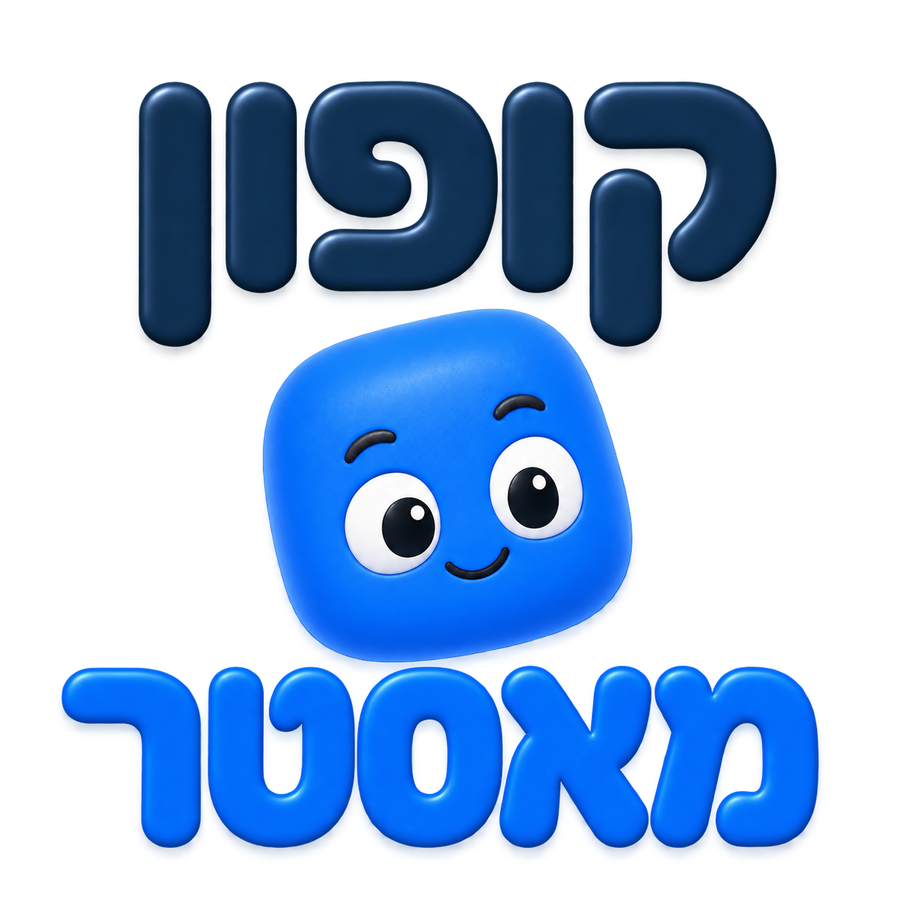
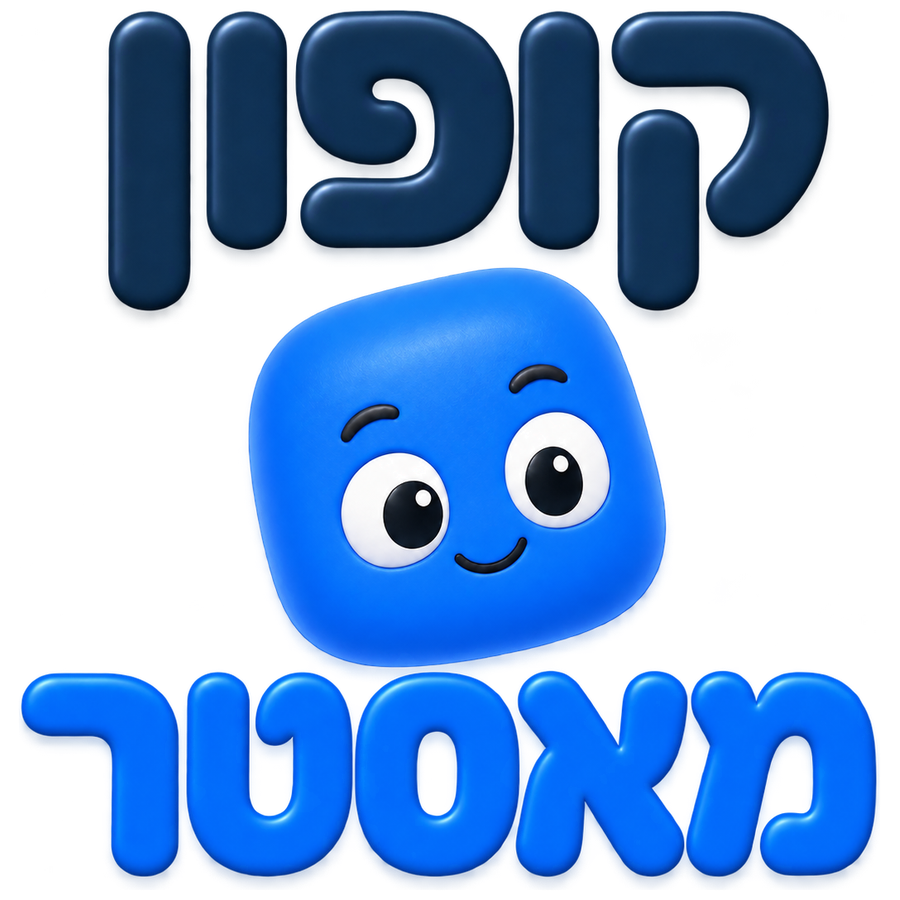
Stop the wordmark's invisible halo from eating the login screen
Two things you spotted turn out to be the same bug.

The generated wordmark art carries a halo of alpha 1 to 8 reaching about
190px past the artwork — invisible on any background, and indistinguishable
from art to `getbbox()`, which counts anything above zero. The exporter
cropped to that, so the halo went into the export as if it were part of
the mark. The real ink then had to shrink to fit the 1200x240 canvas and
landed on 52% of its height, wrapped in padding nobody could see.

On screen that is a wordmark painting 176x29pt inside its 280x64 box,
with 19pt of nothing above it and 16pt below — a gap that is not in any
stylesheet, which is why it could not be found by reading the layout.
Cropping at alpha 8 instead puts the ink at 81% of the canvas and 277x45pt
on screen, with 9pt of slack each side. The bevel and drop shadow survive:
between alpha 8 and 128 the artwork's own box moves by a few pixels.

That is also most of the height problem. The screen totalled about 780pt
against the roughly 750 an iPhone 16 Pro leaves once Safari has taken its
bars, so it overflowed — and what fell off the bottom was the terms and
privacy line, which sits below the card. A link you have to scroll to find
is a link most people never read.

Trimming the padding around the logo closes the rest: 32 to 20 on the page,
24 to 10 under the mark, 32 to 26 inside the card, 24 to 18 under the
subtitle. 781pt down to 725, which clears the fold with 25 to spare.
[…]

diff --git a/src/screens/auth/LoginScreen.tsx b/src/screens/auth/LoginScreen.tsx
@@ -264,15 +264,22 @@ const styles = StyleSheet.create({
   keyboardView: {
     flex: 1,
   },
+  /**
+   * The whole screen has to clear the fold on a phone, because the terms and
+   * privacy links live under the card and a link you have to scroll to find is
+   * a link most people never read. On an iPhone 16 Pro in Safari — 874pt of
+   * screen, around 750 of it usable once the browser's own bars are out — the
+   * old 32pt padding put the total at roughly 780 and pushed those links off.
+   */
   scrollContent: {
     flexGrow: 1,
     justifyContent: "center",
     paddingHorizontal: 16,
-    paddingVertical: 32,
+    paddingVertical: 20,
   },
   brand: {
     alignItems: "center",
-    marginBottom: 24,
+    marginBottom: 10,
   },
   // Horizontal Hebrew wordmark keeps the form within reach on small screens.
   brandMark: { width: 280, maxWidth: "100%", height: 64 },
@@ -283,7 +290,7 @@ const styles = StyleSheet.create({
     borderRadius: radii.sheet,
     borderWidth: 1,
     paddingHorizontal: 28,
-    paddingVertical: 32,
+    paddingVertical: 26,
     overflow: "hidden",
     boxShadow: "0px 20px 50px rgba(16, 24, 40, 0.18)",
     elevation: 8,
@@ -306,7 +313,7 @@ const styles = StyleSheet.create({
     fontFamily: fonts.body,
     fontSize: 14,
     textAlign: "center",
-    marginBottom: 24,
+    marginBottom: 18,
   },
   fields: {
     gap: 0,

diff --git a/scripts/build-kuponi-wordmarks.py b/scripts/build-kuponi-wordmarks.py
@@ -32,7 +32,19 @@ for name in ('color-horizontal', 'color-stacked', 'white-horizontal', 'white-sta
     original = Image.open(BRAND / 'source' / f'{name}.png').convert('RGBA')
     assert original.getchannel('A').getextrema()[0] == 0
     # Trim transparent canvas only; preserve the approved art, bevels and shadows.
-    cropped = original.crop(original.getchannel('A').getbbox())
+    #
+    # Thresholded, because `getbbox()` counts any alpha above zero and the
+    # generated source carries a halo of 1-8 alpha reaching ~190px past the
+    # artwork. Cropping to that kept the halo as if it were art: the wordmark
+    # then had to shrink to fit the export canvas, so it landed at roughly half
+    # the height it should have, wrapped in invisible padding that read on
+    # screen as a gap nobody could find in the layout.
+    #
+    # 8 is comfortably below the real bevel and drop shadow — between alpha 8
+    # and 128 the artwork's own box only moves by a few pixels, so the shadow
+    # survives the crop intact.
+    alpha = original.getchannel('A')
+    cropped = original.crop(alpha.point(lambda value: 255 if value > 8 else 0).getbbox())
     cropped = ImageOps.expand(cropped, border=12, fill=(0, 0, 0, 0))
     size = (1200, 240) if name.endswith('horizontal') else (900, 900)
     marks[name] = fit(cropped, size)
